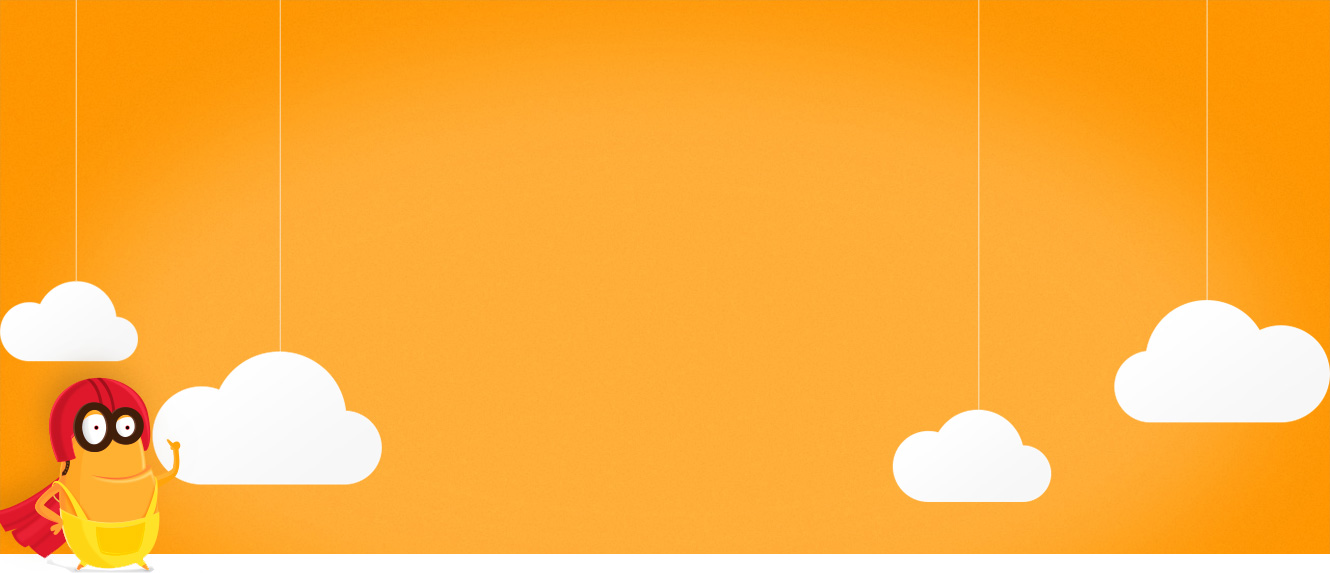
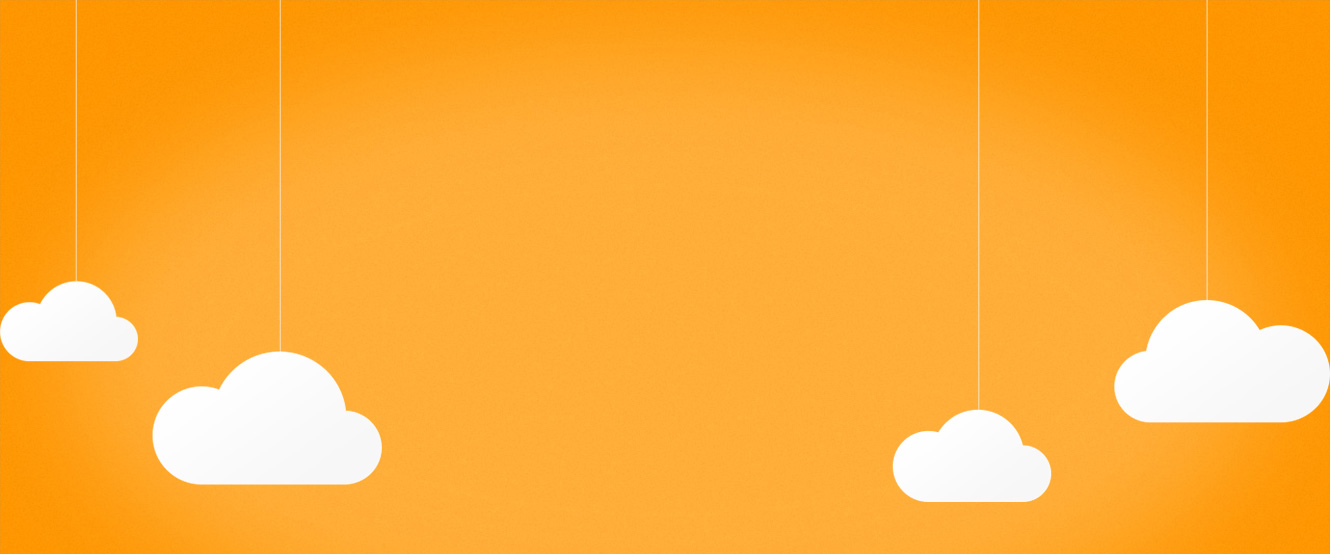
Исправление фона и добавление отдельного zakamen

diff --git a/less/__project/__partners.less b/less/__project/__partners.less
@@ -2,7 +2,8 @@
 .promo{
   width: 100%;
   padding-top: 45px;
-  min-height: 575px;
+  min-height: 548px;
+  position: relative;
   min-width: 970px;
   text-align: center;
   box-sizing: border-box;
@@ -12,6 +13,7 @@
 
   &_title{
     color: #fff;
+    font-weight: 100;
     font-size: 32px;
     line-height: 32px;
     margin-bottom: 20px;
@@ -29,16 +31,28 @@
   }
 }
 
+/* Стили для позиционирования zakamen-а */ 
+.zakamen:before{
+  content: "";
+  width: 202px;
+  height: 235px;
+  display: inline-block;
+  position: absolute;
+  left: 10px; bottom: -20px;
+  background: url(../../img/zakamen.png) no-repeat;
+}
+
 /* Преимущества партнерства */
 .advantages{
   padding: 70px 0 0;
   text-align: center;
 
   &_title{
+    font-weight: 100;
     text-align: left;
     font-size: 24px;
     line-height: 25px;
-    margin-bottom: 25px;
+    margin-bottom: 30px;
     font-family: "proxima-light", Arial, sans-serif;
   }
 
@@ -47,13 +61,13 @@
     margin-bottom: 70px;
 
     li{
-      color: #656565;
       font-size: 14px;
       list-style: none;
       line-height: 21px;
       margin-bottom: 35px;
       position: relative;
       padding-left: 45px;
+      color: rgba(101,101,101,.6);
       font-family: "Open Sans", Arial, sans-serif;
 
       &:before{

diff --git a/partners.html b/partners.html
@@ -323,7 +323,7 @@
   </header> <!-- хедер страницы 2 вариант конец-->
 
   <!-- промо со слайдером -->
-  <section class="promo">
+  <section class="promo zakamen">
     <div class="container">
 
       <p class="promo_title">Что такое ZakaZaka?</p>
